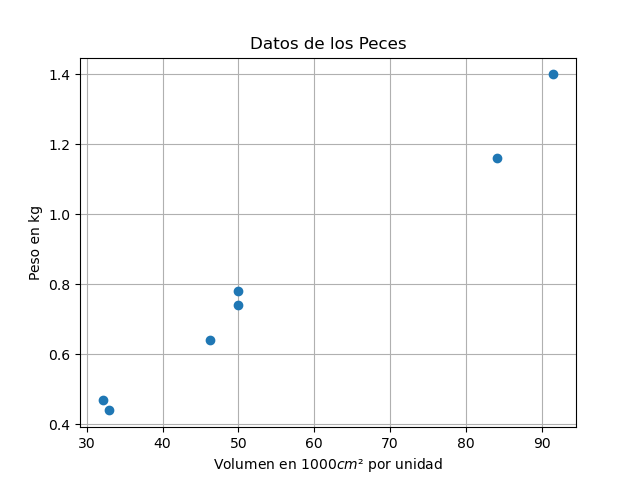
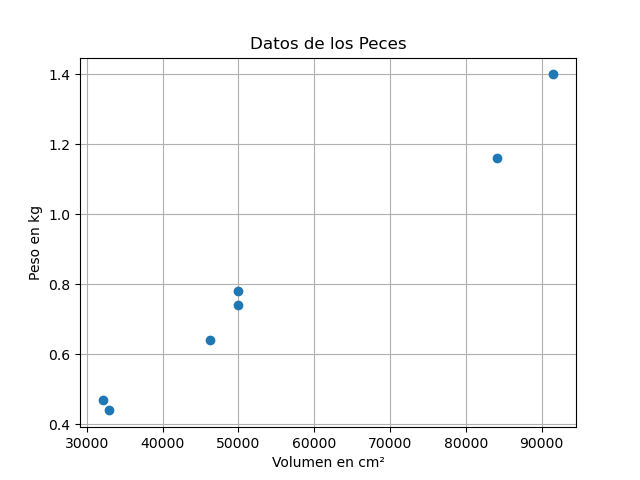
feat: grafica el modelo geometrico

diff --git a/main.py b/main.py
@@ -6,16 +6,31 @@ from data import read_data, rls
 
 
 def plot_data(x: list[float], y: list[float]):
-    x3k = [(xi**3) / 1000 for xi in x]
+    x3 = [xi**3 for xi in x]
 
     fig, ax = plt.subplots()
-    ax.plot(x3k, y, "o")
+    ax.plot(x3, y, "o")
     ax.set_title("Datos de los Peces")
-    ax.set_xlabel("Volumen en $1000cm²$ por unidad")
+    ax.set_xlabel("Volumen en cm²")
     ax.set_ylabel("Peso en kg")
     ax.grid()
     plt.savefig("media/data.png")
     plt.close()
+
+    return None
+
+
+def plot_model(model: list[float], longitudes: list[float], pesos: list[float]):
+    x3 = [xi**3 for xi in longitudes]
+
+    fig, ax = plt.subplots()
+    ax.plot(x3, model, "-ro", label="datos del modelo geometrico")
+    ax.plot(x3, pesos, "o", label="peso")
+    ax.set_title("Modelo geometrico vs datos")
+    ax.set_xlabel("Volumen en $cm²$")
+    ax.set_ylabel("Peso en kg")
+    ax.grid()
+    plt.savefig("media/geometrico.png")
 
 
 def make_plot():
@@ -28,8 +43,18 @@ def make_plot():
 
 
 def main():
-    data: list[list] = read_data()
-    plot_data(data[0], data[1])
+    data: list[list[float]] = read_data()
+
+    longitudes: list[float] = data[0]
+    pesos: list[float] = data[1]
+    longitudes_cubo: list[float] = [longitud**3 for longitud in longitudes]
+
+    plot_data(longitudes, pesos)
+
+    k = rls(longitudes_cubo, pesos)
+    aprox = modelo_geom(longitudes, k)
+
+    plot_model(aprox, longitudes, pesos)
 
 
 if __name__ == "__main__":
